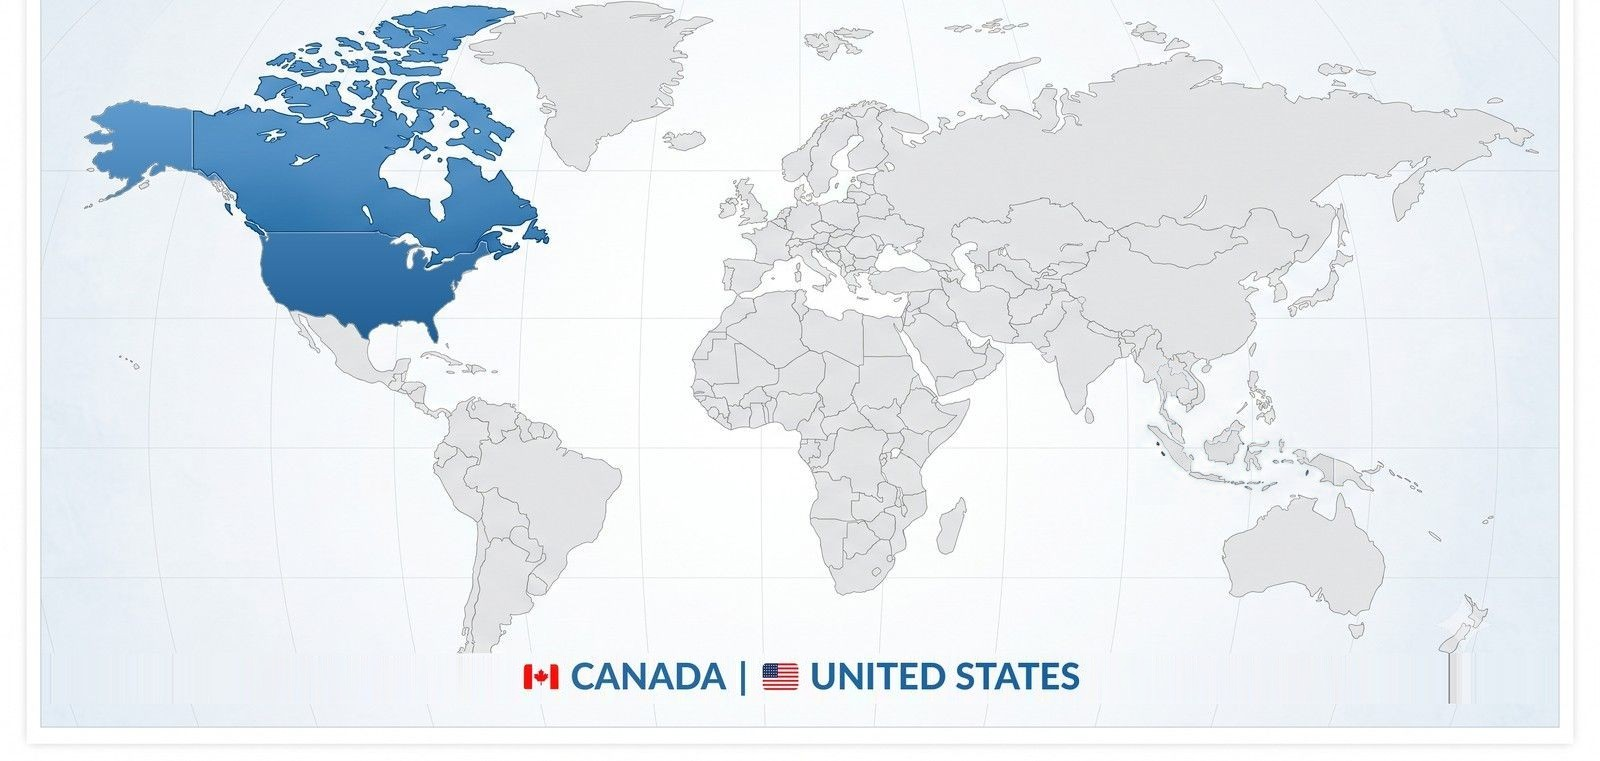
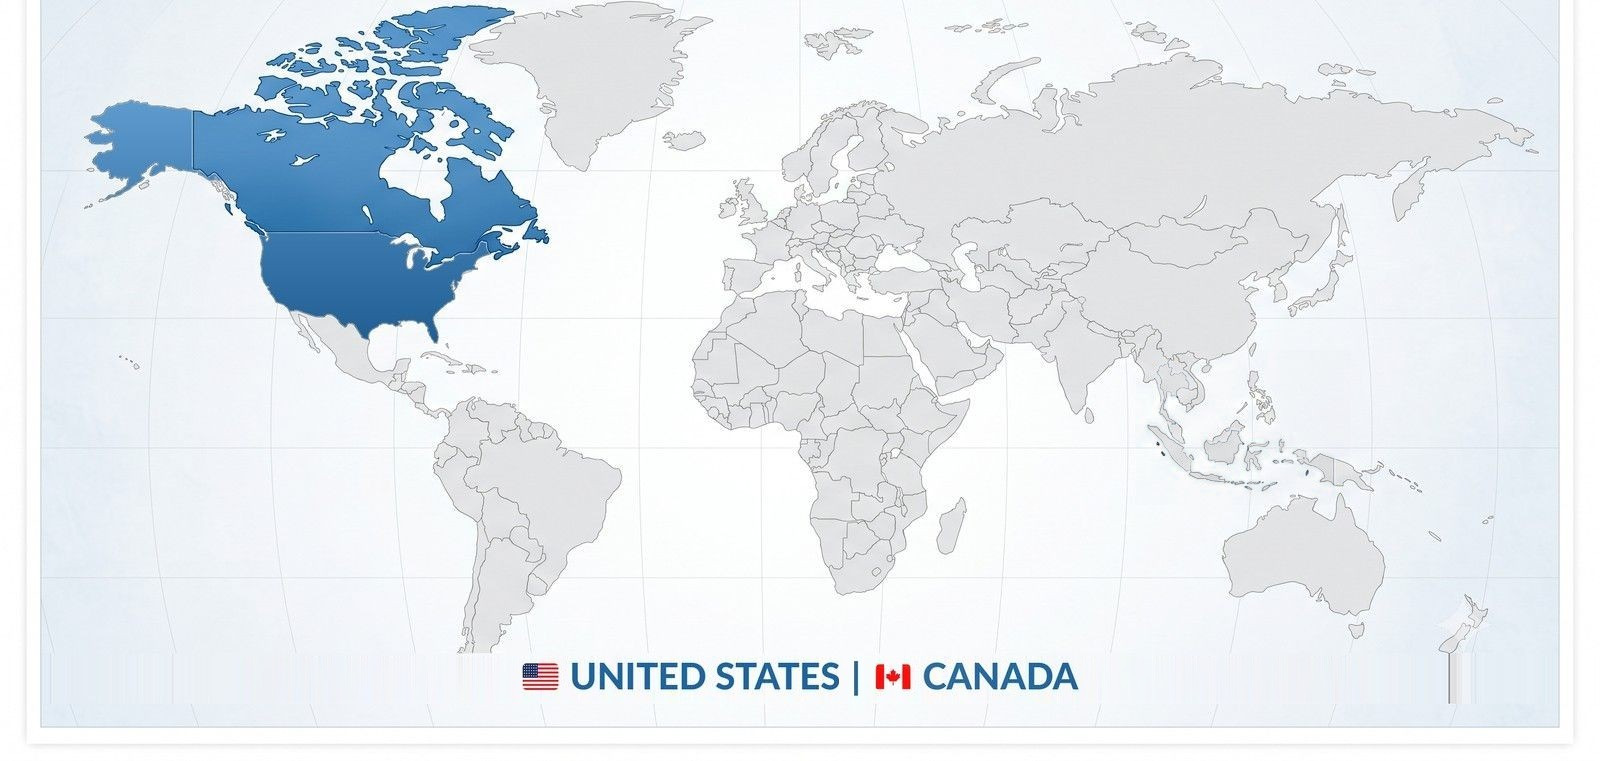
Lead with the United States, update headcount and team description
Claude-Session: https://claude.ai/code/session_01MjwusrMyx5pMaoohYRat1t

Changed region(s): [[0.3125, 0.8463, 0.6875, 0.9067]]

diff --git a/index.html b/index.html
@@ -14,7 +14,7 @@
 <link rel="canonical" href="https://www.cpxtech.ai/">
 
 <title>CPX Technologies | Own your AI</title>
-<meta name="description" content="NVIDIA HGX B300 compute for teams across Canada and the United States. Dedicated bare metal clusters on reserved terms, from CPX Technologies Inc.">
+<meta name="description" content="NVIDIA HGX B300 compute for teams across the United States and Canada. Dedicated bare metal clusters on reserved terms, from CPX Technologies Inc.">
 
 <link rel="preconnect" href="https://fonts.googleapis.com">
 <link rel="preconnect" href="https://fonts.gstatic.com" crossorigin>
@@ -149,7 +149,7 @@ tailwind.config = {
       </h1>
 
       <p class="mt-7 text-lg lg:text-xl text-tint/90 leading-relaxed max-w-xl">
-        NVIDIA HGX B300 servers contracted to one customer at a time, in our own colocation across Canada and the United States.
+        NVIDIA HGX B300 servers contracted to one customer at a time, in our own colocation across the United States and Canada.
       </p>
 
       <div class="mt-10 flex flex-wrap items-center gap-5">
@@ -260,7 +260,7 @@ tailwind.config = {
           </li>
           <li class="flex gap-3">
             <span class="mt-[9px] w-1.5 h-1.5 rounded-full bg-cta shrink-0"></span>
-            <span><strong class="text-navy font-semibold">Open across North America.</strong> Canadian and United States sites, so you can put the cluster in the jurisdiction your workload needs.</span>
+            <span><strong class="text-navy font-semibold">Open across North America.</strong> United States and Canadian sites, so you can put the cluster in the jurisdiction your workload needs.</span>
           </li>
         </ul>
       </div>
@@ -670,10 +670,10 @@ tailwind.config = {
       <div class="lg:col-span-5">
         <p class="eyebrow text-tint/70 mb-5">Global footprint</p>
         <h2 class="font-display font-extrabold text-3xl lg:text-4xl tracking-tight leading-[1.1] text-white">
-          Operating in Canada and the United States.
+          Operating in the United States and Canada.
         </h2>
         <p class="mt-6 text-tint/75 text-lg leading-relaxed">
-          We build and operate AI infrastructure in Canada and the United States. CPX Technologies Inc. runs North America, with its own entity, its own contracts and a team on the ground.
+          We build and operate AI infrastructure in the United States and Canada. CPX Technologies Inc. runs North America, with its own entity, its own contracts and a team on the ground.
         </p>
         <p class="mt-5 text-tint/75 text-lg leading-relaxed">
           We build sovereign compute. That means putting NVIDIA infrastructure inside the country using it, so national AI work runs on domestic soil under domestic rules.
@@ -685,7 +685,7 @@ tailwind.config = {
             <dd class="eyebrow text-lightgray mt-1.5">Countries</dd>
           </div>
           <div>
-            <dt class="font-stat font-bold text-2xl text-white">30+</dt>
+            <dt class="font-stat font-bold text-2xl text-white">20+</dt>
             <dd class="eyebrow text-lightgray mt-1.5">People across the business</dd>
           </div>
           <div>
@@ -699,7 +699,7 @@ tailwind.config = {
           <img src="assets/global-presence.jpg"
                srcset="assets/global-presence-900.jpg 900w, assets/global-presence.jpg 1600w"
                sizes="(min-width:1024px) 640px, 92vw"
-               alt="World map with Canada and the United States highlighted"
+               alt="World map with the United States and Canada highlighted"
                width="1600" height="761" loading="lazy" decoding="async"
                class="w-full rounded-xl bg-white ring-1 ring-inset ring-white/15 shadow-xl shadow-black/20">
           <figcaption class="mt-4 text-sm text-lightgray leading-relaxed">

diff --git a/team.html b/team.html
@@ -17,7 +17,7 @@
 <link rel="canonical" href="https://www.cpxtech.ai/team.html">
 
 <meta property="og:title" content="Our team | CPX Technologies">
-<meta property="og:description" content="A small team across North America, backed by a group that has built this before.">
+<meta property="og:description" content="A small North American team, backed by a broad network of system integration suppliers and more than 15 years of experience in the industry.">
 <meta property="og:type" content="website">
 
 <link rel="preconnect" href="https://fonts.googleapis.com">
@@ -226,8 +226,8 @@ tailwind.config = {
           A small team across North America. People who have done this before.
         </h2>
         <p class="mt-6 text-body leading-relaxed text-[17px]">
-          We build high density NVIDIA infrastructure in Canada and the United States, so national
-          AI work can run on home soil. More than thirty people across the business, an NVIDIA
+          We build high density NVIDIA infrastructure in the United States and Canada, so national
+          AI work can run on home soil. More than twenty people across the business, an NVIDIA
           partner since 2025. The people above are the ones who deliver it here.
         </p>
       </div>
@@ -238,7 +238,7 @@ tailwind.config = {
           <p class="mt-2 text-[13px] text-muted leading-snug">countries we operate in</p>
         </div>
         <div>
-          <div class="font-stat font-bold text-3xl lg:text-4xl text-navy">30+</div>
+          <div class="font-stat font-bold text-3xl lg:text-4xl text-navy">20+</div>
           <p class="mt-2 text-[13px] text-muted leading-snug">people across the business</p>
         </div>
         <div>

diff --git a/contact.html b/contact.html
@@ -14,7 +14,7 @@
 <link rel="canonical" href="https://www.cpxtech.ai/contact.html">
 
 <title>Contact | CPX Technologies</title>
-<meta name="description" content="Talk to CPX Technologies about dedicated NVIDIA B300 compute across Canada and the United States. Tell us your model, your scale and your timeline.">
+<meta name="description" content="Talk to CPX Technologies about dedicated NVIDIA B300 compute across the United States and Canada. Tell us your model, your scale and your timeline.">
 
 <link rel="preconnect" href="https://fonts.googleapis.com">
 <link rel="preconnect" href="https://fonts.gstatic.com" crossorigin>
@@ -191,7 +191,7 @@ tailwind.config = {
         <h3 class="font-display font-extrabold text-navy">Where we operate</h3>
         <p class="mt-3 text-body leading-relaxed">
           CPX Technologies Inc. runs North America. We build and operate NVIDIA infrastructure in
-          Canada and the United States.
+          the United States and Canada.
           <a class='text-cta hover:text-bluedeep transition font-medium' href='team.html'>Meet the team &rarr;</a>
         </p>
       </aside>

diff --git a/privacy.html b/privacy.html
@@ -93,10 +93,10 @@ tailwind.config = {
 
     <p>
       CPX Technologies Inc. ("CPX", "we", "us") operates www.cpxtech.ai and provides dedicated
-      NVIDIA compute capacity from colocation facilities across Canada and the United States. This
+      NVIDIA compute capacity from colocation facilities across the United States and Canada. This
       policy explains what personal information we collect through this website, why we collect it,
       and what we do with it. CPX is a Delaware corporation with its office in Santa Clara,
-      California, and operates in both Canada and the United States. We handle personal information
+      California, and operates in both the United States and Canada. We handle personal information
       in accordance with the California Consumer Privacy Act as amended by the California Privacy
       Rights Act and, for enquiries from Canada, with Canada's Personal Information Protection and
       Electronic Documents Act (PIPEDA) and British Columbia's Personal Information Protection Act
